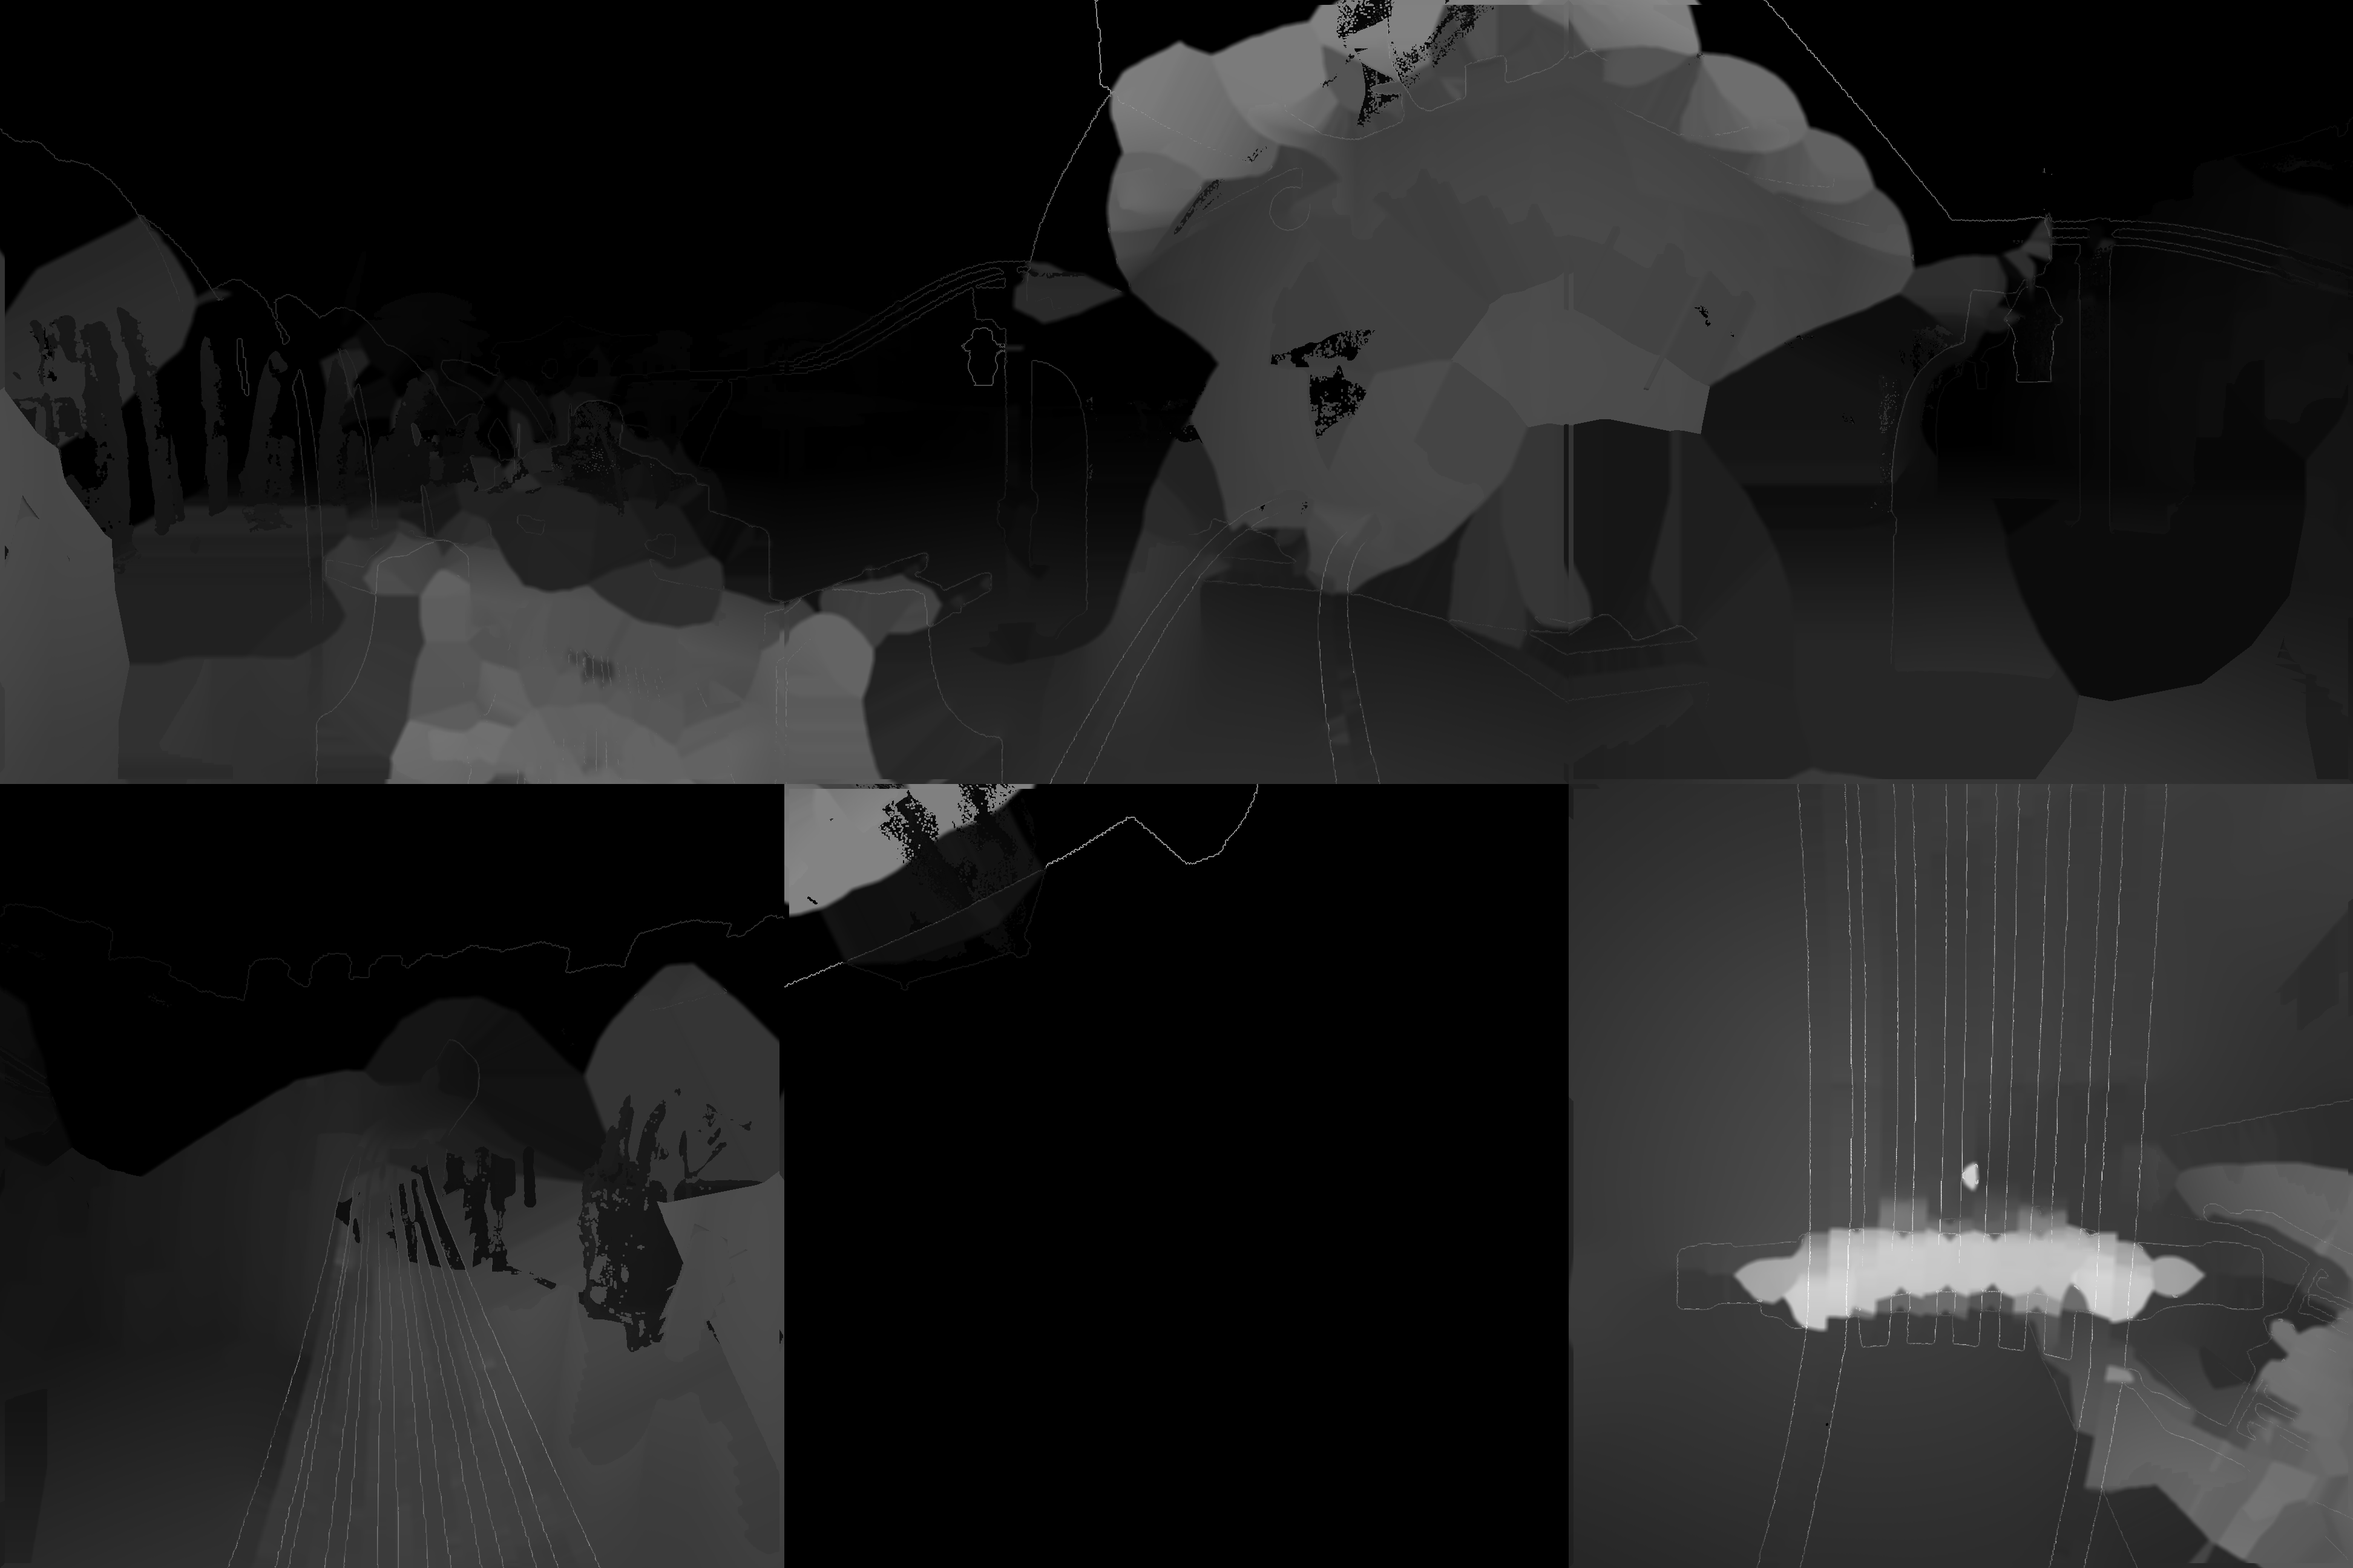
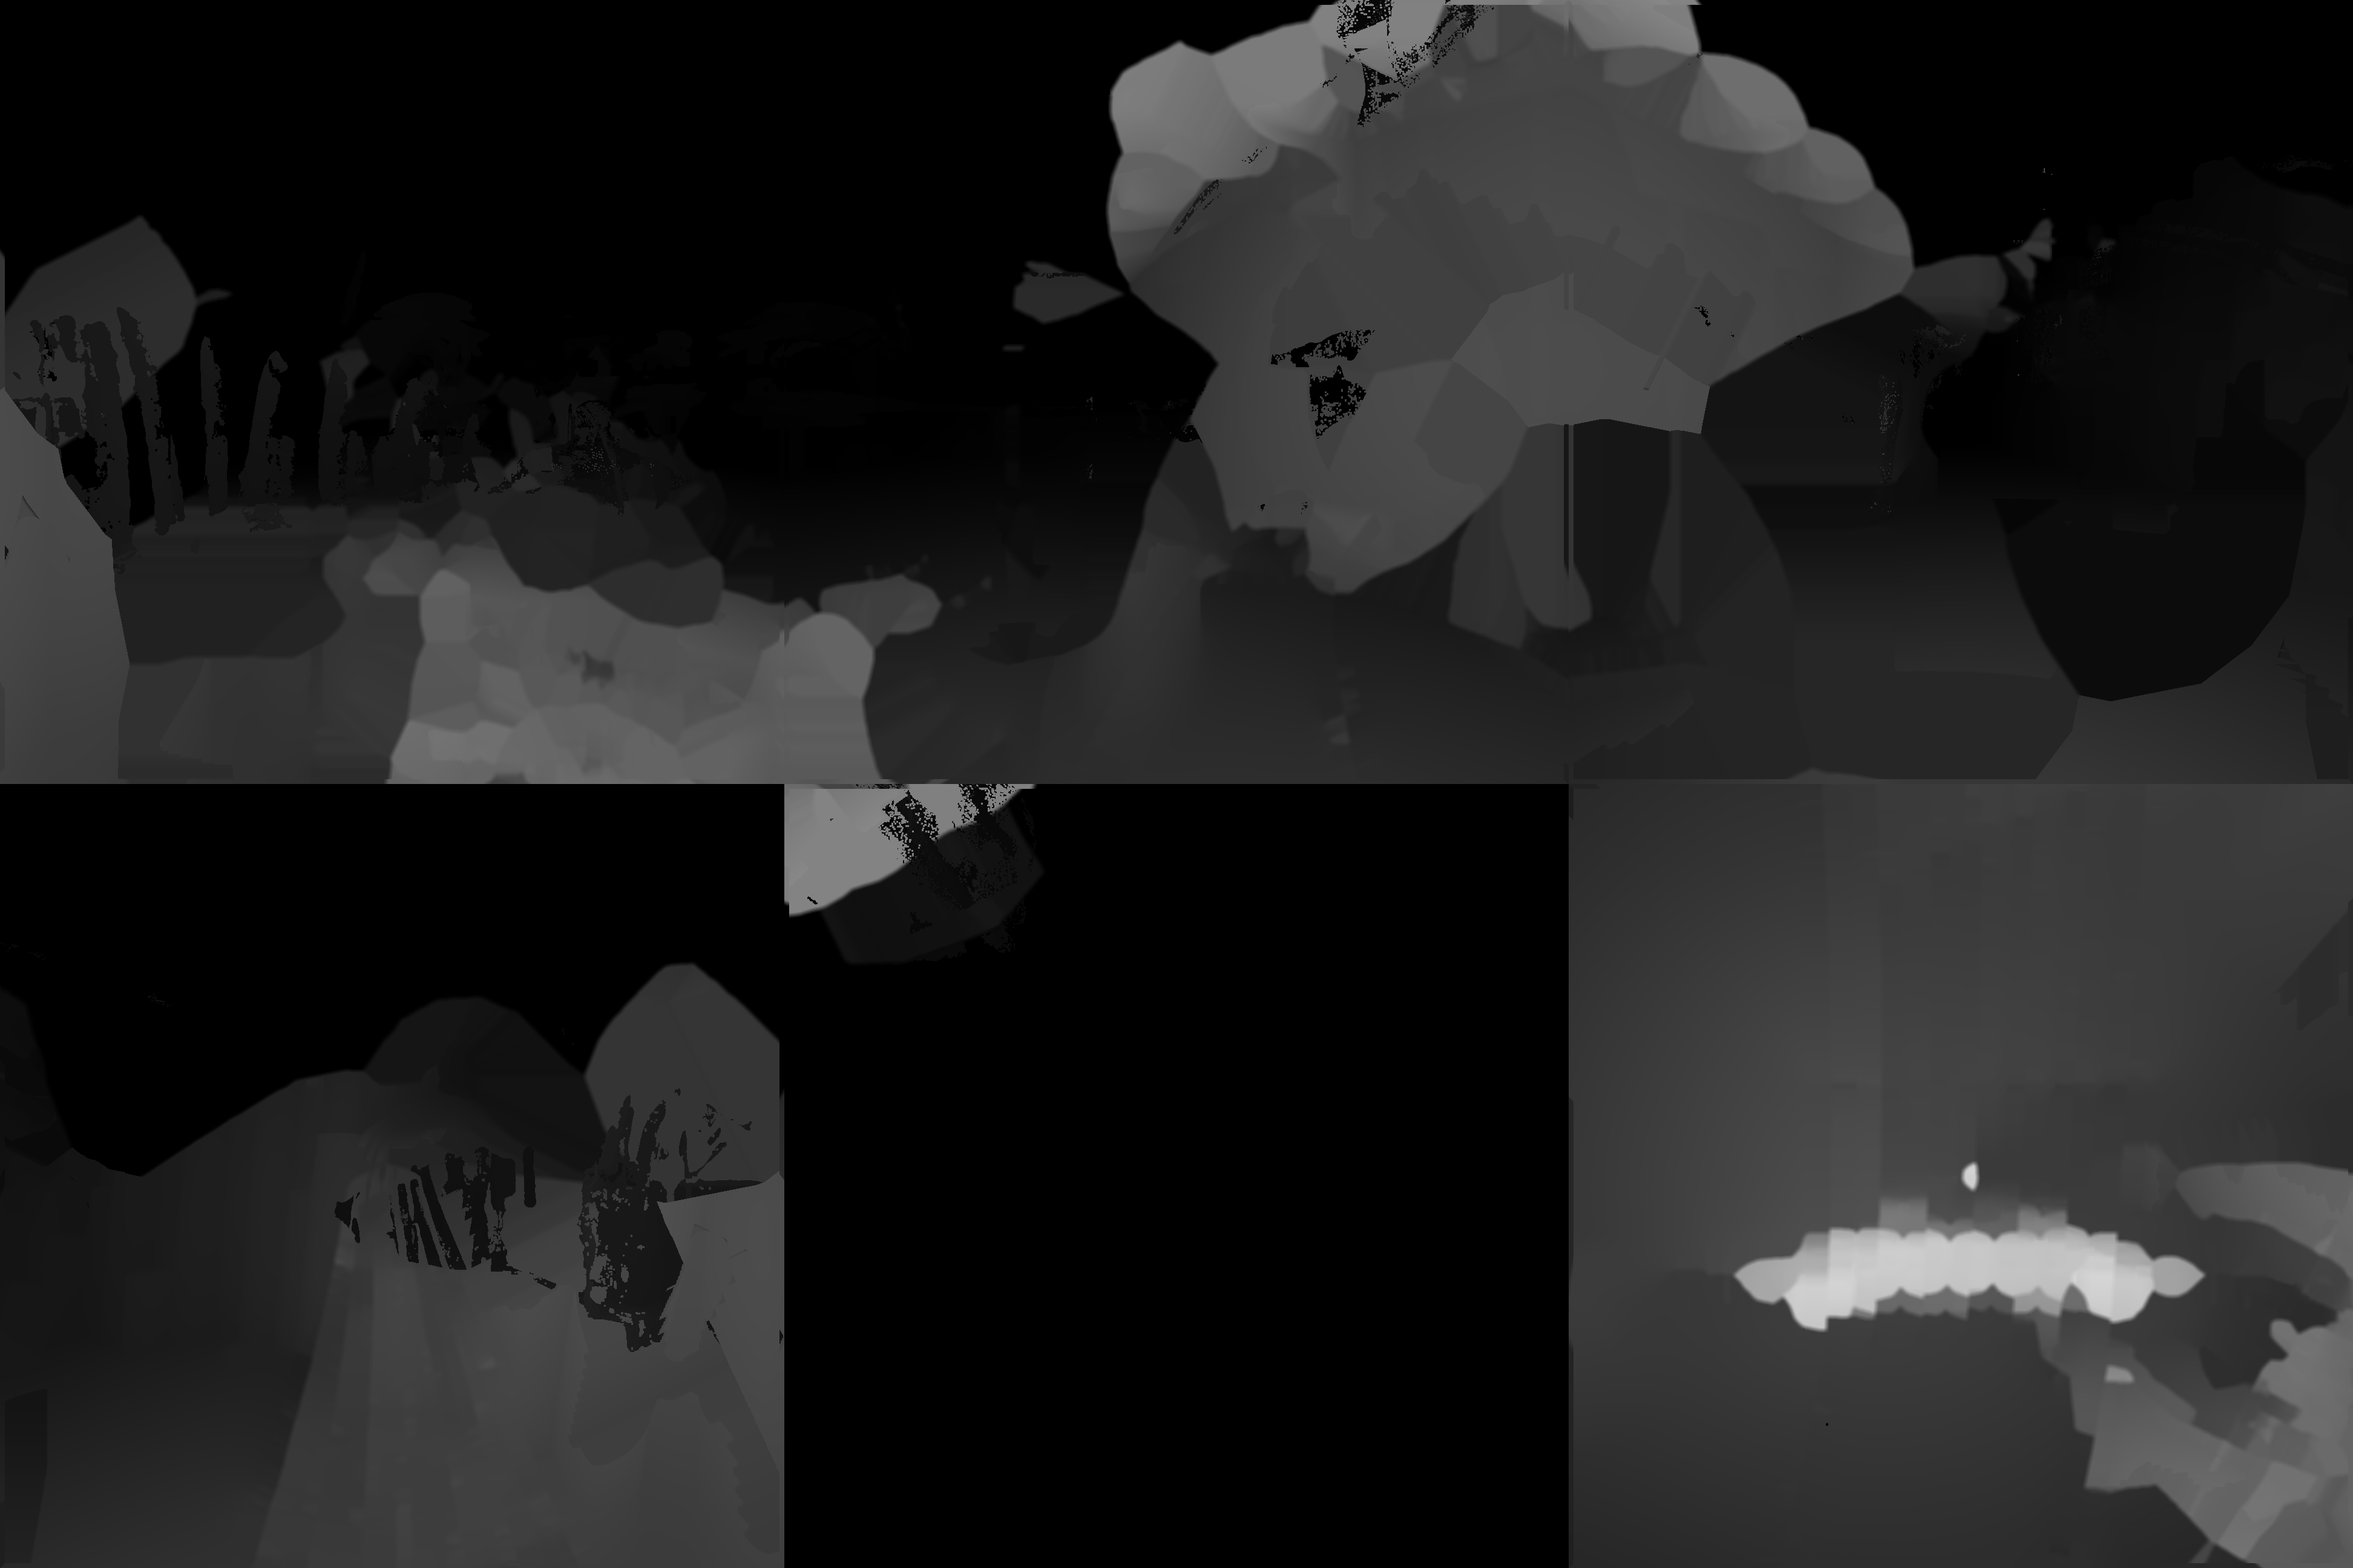
build_layers.py: the third-surface rule no longer puts a near object's own rim back into the backdrop (a one-pixel outline of every near object left behind); MASS 84 MoGe layered rebuilt
Claude-Session: https://claude.ai/code/session_01PGTZsQJKeQ77ippduWGzGV

Changed region(s): [[0.4046, 0.1562, 0.4357, 0.1875]]

diff --git a/cube/myst3/layers/build_layers.py b/cube/myst3/layers/build_layers.py
@@ -482,6 +482,15 @@ def main():
         # (MASS 89's ring is only a little nearer than the sky behind it, q 1.5-1.9
         # against 1: the test must be tight)
         third = holes[k][inner] & (own_q > back_q * 1.15)
+        # Never the near object itself, nor the soft step just outside it: the
+        # hole takes in the object's own blended rim (hole_band's rim_px) and
+        # the step's ramp, both nearer than the backdrop, and given back to the
+        # backdrop as a third surface they left a one-pixel outline of every
+        # near object behind at its own depth and colour, a crusty line round
+        # MASS 84's lamp, rails and roof rim as soon as the eye moved.
+        w_in = wholes[k][inner]
+        out_dist = cv2.distanceTransform((~w_in).astype(np.uint8), cv2.DIST_L2, 3)
+        third &= ~w_in & (out_dist > sc(2))
         green = np.where(holes[k][inner], 0, 255)
         if third.any():
             bg[k - 1][third] = col[k][third]
